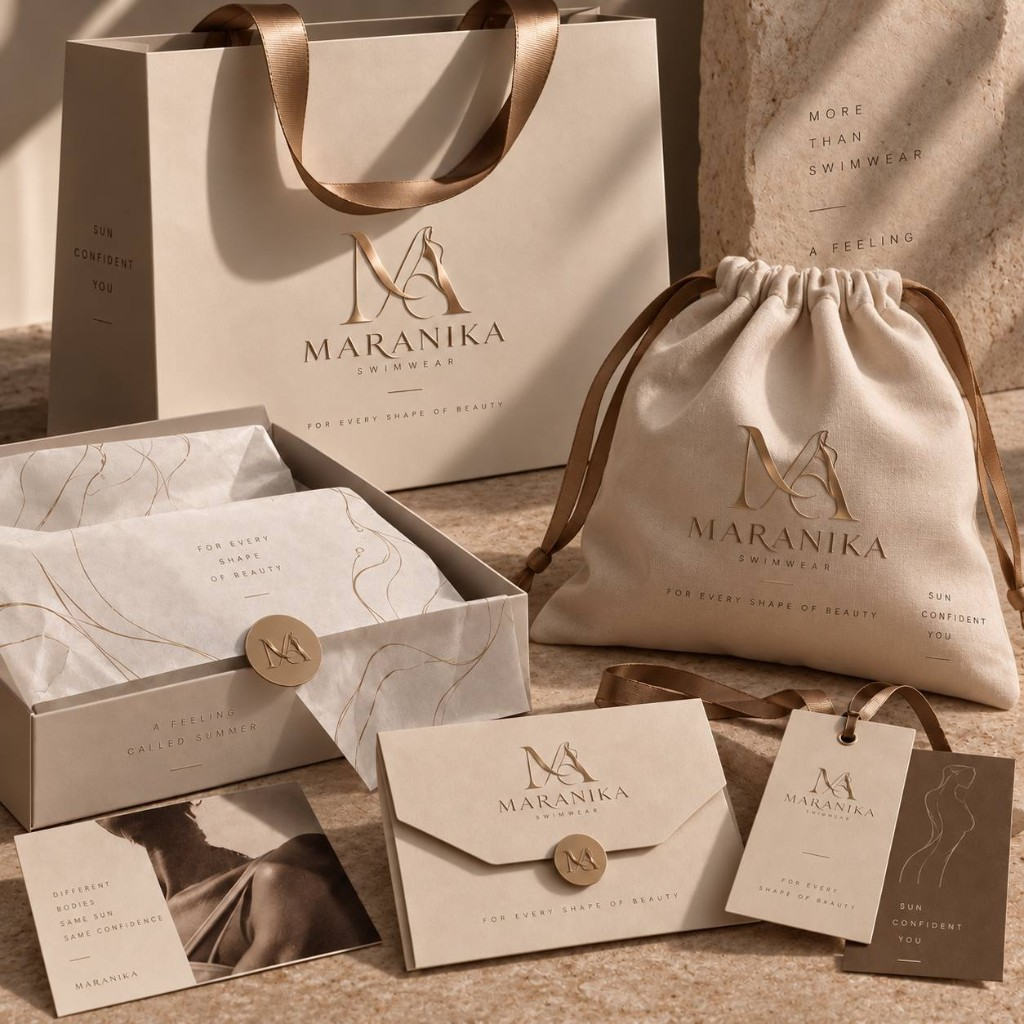
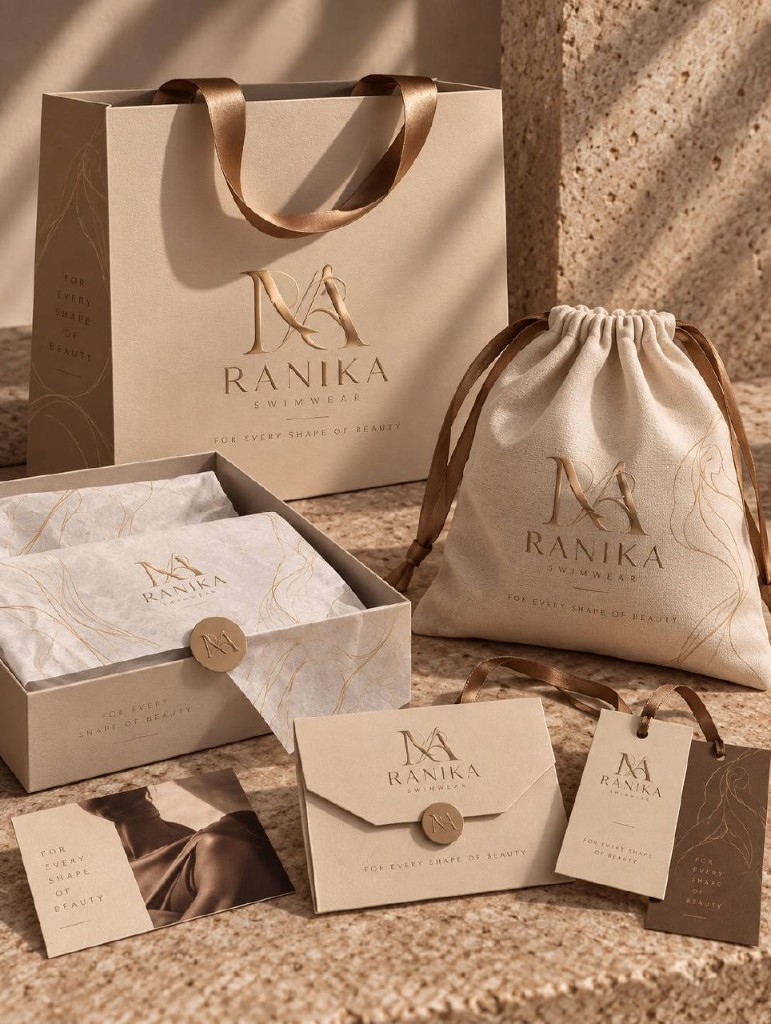
Replace packaging photos and drop the budget label.

diff --git a/src/pages/Home.jsx b/src/pages/Home.jsx
@@ -209,9 +209,9 @@ export default function Home() {
           <div>
             <p className="kicker">Упаковка</p>
             <h2>
-              Две линии.
+              В каждом заказе.
               <br />
-              Одна эстетика.
+              Премиум — отдельно.
             </h2>
           </div>
           <Link to="/packaging">
@@ -220,13 +220,13 @@ export default function Home() {
         </div>
         <div className="pack-grid">
           <article className="reveal">
-            <img src={asset("/brand/pack-budget.jpg")} alt="Бюджетная упаковка RANIKA: пакет, калька, зип-пакет и бирка" />
+            <img src={asset("/brand/pack-included.jpg")} alt="Упаковка RANIKA, которая приходит с каждым заказом" />
             <div>
-              <p className="kicker">01 — входит в заказ</p>
-              <h3>Бюджет</h3>
+              <p className="kicker">01 — при любом заказе</p>
+              <h3>В комплекте</h3>
               <p>
-                Плотный пакет, калька с золотым контуром, матовый зип-пакет, конверт и бирка. Тихо и
-                достаточно.
+                Пакет, калька с золотым контуром, зип-пакет, конверт и бирка. Эта упаковка приходит
+                всегда.
               </p>
             </div>
           </article>
@@ -236,11 +236,11 @@ export default function Home() {
               alt="Премиум-упаковка RANIKA: коробка, хлопковый мешок, сургуч и открытка"
             />
             <div>
-              <p className="kicker">02 — ритуал +690 ₽</p>
+              <p className="kicker">02 — отдельно +690 ₽</p>
               <h3>Премиум</h3>
               <p>
-                Жёсткая коробка, хлопковый мешок на лентах, сургуч, открытка и две бирки. Её оставляют
-                на полке.
+                Жёсткая коробка, хлопковый мешок на лентах, сургуч, открытка и две бирки. Её можно
+                добавить к заказу.
               </p>
             </div>
           </article>

diff --git a/src/data.js b/src/data.js
@@ -69,7 +69,7 @@ export const products = [
     points: [
       "Двойная подкладка чашки",
       "Регулируемые завязки на шее и спине",
-      "Фурнитура золотистого тона",
+      "Индивидуальная фурнитура и гравировка",
       "Не просвечивает в мокром виде",
     ],
   },
@@ -211,26 +211,26 @@ export const products = [
 
 export const packs = [
   {
-    id: "budget",
-    title: "Бюджет",
+    id: "included",
+    title: "В каждом заказе",
     price: 0,
-    image: asset("/brand/pack-budget.jpg"),
-    kicker: "Входит в заказ",
-    text: "Плотный пакет, калька с золотым контуром, матовый зип-пакет, конверт и бирка. Тот же знак, без лишнего объёма.",
+    image: asset("/brand/pack-included.jpg"),
+    kicker: "При любом заказе",
+    text: "Пакет, калька с золотым контуром, зип-пакет, конверт и бирка. Эта упаковка приходит с каждым заказом.",
   },
   {
     id: "premium",
     title: "Премиум",
     price: 690,
     image: asset("/brand/pack-premium.jpg"),
-    kicker: "Ритуал",
-    text: "Жёсткая коробка, хлопковый мешок на лентах, сургуч, открытка и две бирки. Упаковку хочется оставить.",
+    kicker: "Можно добавить",
+    text: "Жёсткая коробка, хлопковый мешок на лентах, сургуч, открытка и две бирки. Покупается отдельно.",
   },
 ];
 
 export const virtues = [
   {
-    title: "Премиальная фурнитура",
+    title: "Индивидуальная фурнитура и гравировка",
     image: asset("/images/detail-hardware.jpg"),
     to: "/about#materials",
   },
@@ -246,7 +246,7 @@ export const virtues = [
   },
   {
     title: "Эстетичная упаковка",
-    image: asset("/brand/pack-premium.jpg"),
+    image: asset("/brand/pack-included.jpg"),
     to: "/packaging",
   },
 ];

diff --git a/src/pages/About.jsx b/src/pages/About.jsx
@@ -45,8 +45,8 @@ export default function About() {
           <p className="kicker">03</p>
           <h2>На весь день</h2>
           <p>
-            Купальник должен пережить море, камень и город после берега. Ткань плотная и матовая,
-            фурнитура — золотистый металл, который не спорит с кожей.
+            Купальник должен пережить море, камень и город после берега. Ткань плотная и матовая.
+            Индивидуальная фурнитура и гравировка не спорят с кожей.
           </p>
           <Link to="/catalog" className="btn ghost">
             Смотреть коллекцию <span className="arrow">→</span>
@@ -73,10 +73,10 @@ export default function About() {
             </figcaption>
           </figure>
           <figure>
-            <img src={asset("/images/detail-hardware.jpg")} alt="Золотистое кольцо на какао-ткани" />
+            <img src={asset("/images/detail-hardware.jpg")} alt="Индивидуальная фурнитура и гравировка RANIKA" />
             <figcaption>
-              <strong>Фурнитура</strong>
-              Кольцо золотистого тона. После моря и бассейна его ополаскивают пресной водой.
+              <strong>Индивидуальная фурнитура и гравировка</strong>
+              Кольцо и гравировка делаются под модель. После моря и бассейна их ополаскивают пресной водой.
             </figcaption>
           </figure>
           <figure>

diff --git a/src/pages/Packaging.jsx b/src/pages/Packaging.jsx
@@ -6,10 +6,10 @@ export default function Packaging() {
     <section className="page-wrap">
       <header className="page-head">
         <p className="kicker">Упаковка</p>
-        <h1>Бюджет и премиум</h1>
+        <h1>Упаковка</h1>
         <p className="lead">
-          Две линии одного дома. Бюджетная входит в заказ. Премиум — отдельный ритуал, если вещь
-          дарят или оставляют себе как предмет.
+          Фирменная упаковка приходит с любым заказом. Премиум можно купить отдельно — если вещь дарят
+          или оставляют себе.
         </p>
       </header>
 
@@ -24,12 +24,12 @@ export default function Packaging() {
               <h2>{pack.title}</h2>
               <p className="price">{pack.price ? `+ ${formatPrice(pack.price)}` : "Включено"}</p>
               <p>{pack.text}</p>
-              {pack.id === "budget" ? (
+              {pack.id === "included" ? (
                 <ul>
-                  <li>Плотный пакет с тиснением знака</li>
-                  <li>Калька с золотым контуром фигуры</li>
-                  <li>Матовый зип-пакет</li>
-                  <li>Конверт, бирка и сургучная печать</li>
+                  <li>Пакет с тиснением знака</li>
+                  <li>Калька с золотым контуром</li>
+                  <li>Зип-пакет</li>
+                  <li>Конверт и бирка</li>
                 </ul>
               ) : (
                 <ul>

diff --git a/src/pages/Product.jsx b/src/pages/Product.jsx
@@ -137,7 +137,7 @@ export default function Product() {
 
         <p className="care">
           Ручная стирка в прохладной воде, без отжима. Кольцо не любит хлор и морскую соль надолго —
-          ополосните после моря. Упаковку — бюджет или премиум — выбираете в корзине.
+          ополосните после моря. Фирменная упаковка приходит с заказом, премиум можно добавить в корзине.
         </p>
       </div>
 

diff --git a/src/shop.jsx b/src/shop.jsx
@@ -17,7 +17,7 @@ export function ShopProvider({ children }) {
   const saved = read();
   const [cart, setCart] = useState(saved?.cart || []);
   const [wish, setWish] = useState(saved?.wish || []);
-  const [packId, setPackId] = useState(saved?.packId || "budget");
+  const [packId, setPackId] = useState(saved?.packId === "premium" ? "premium" : "included");
   const [drawer, setDrawer] = useState(false);
   const [searchOpen, setSearchOpen] = useState(false);
 
